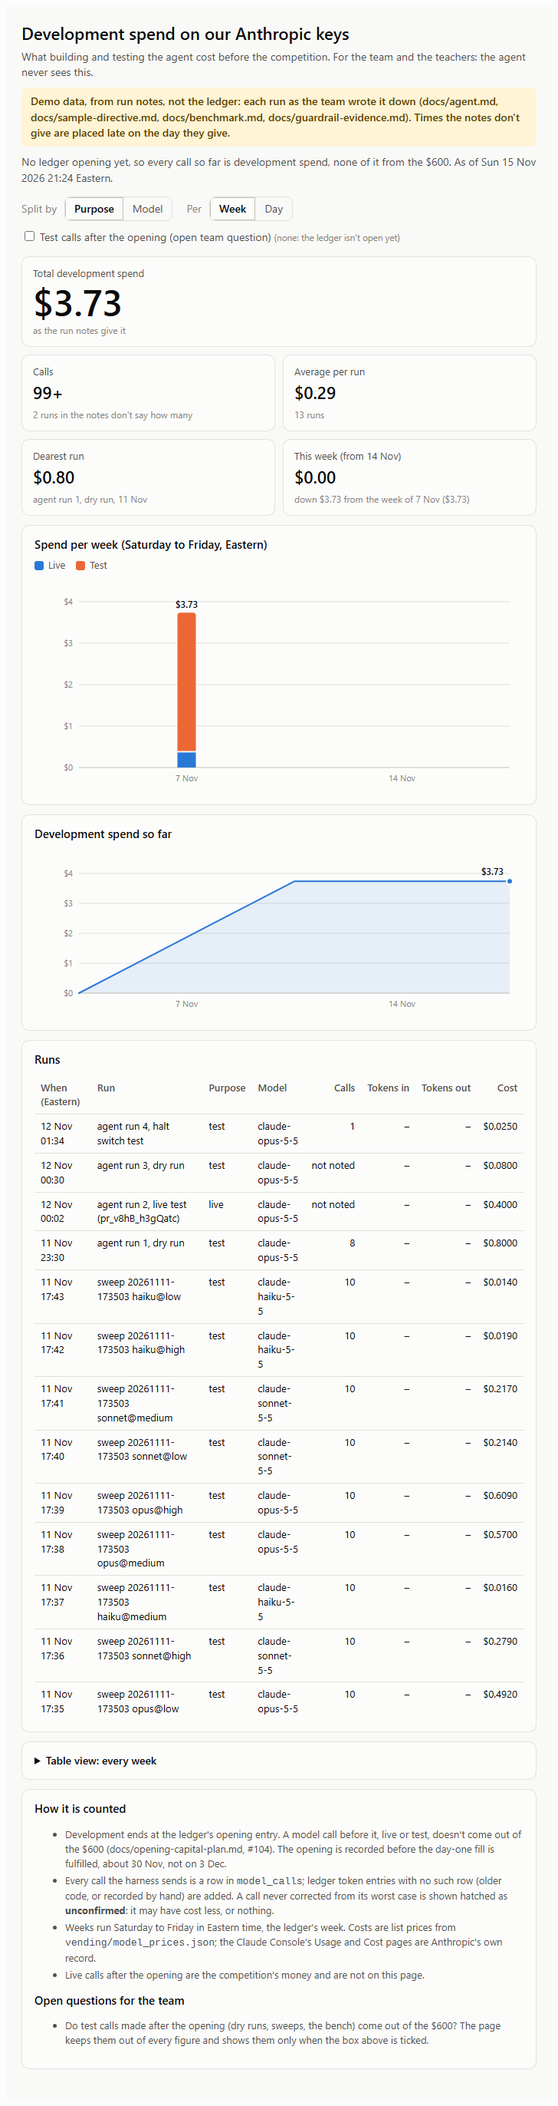
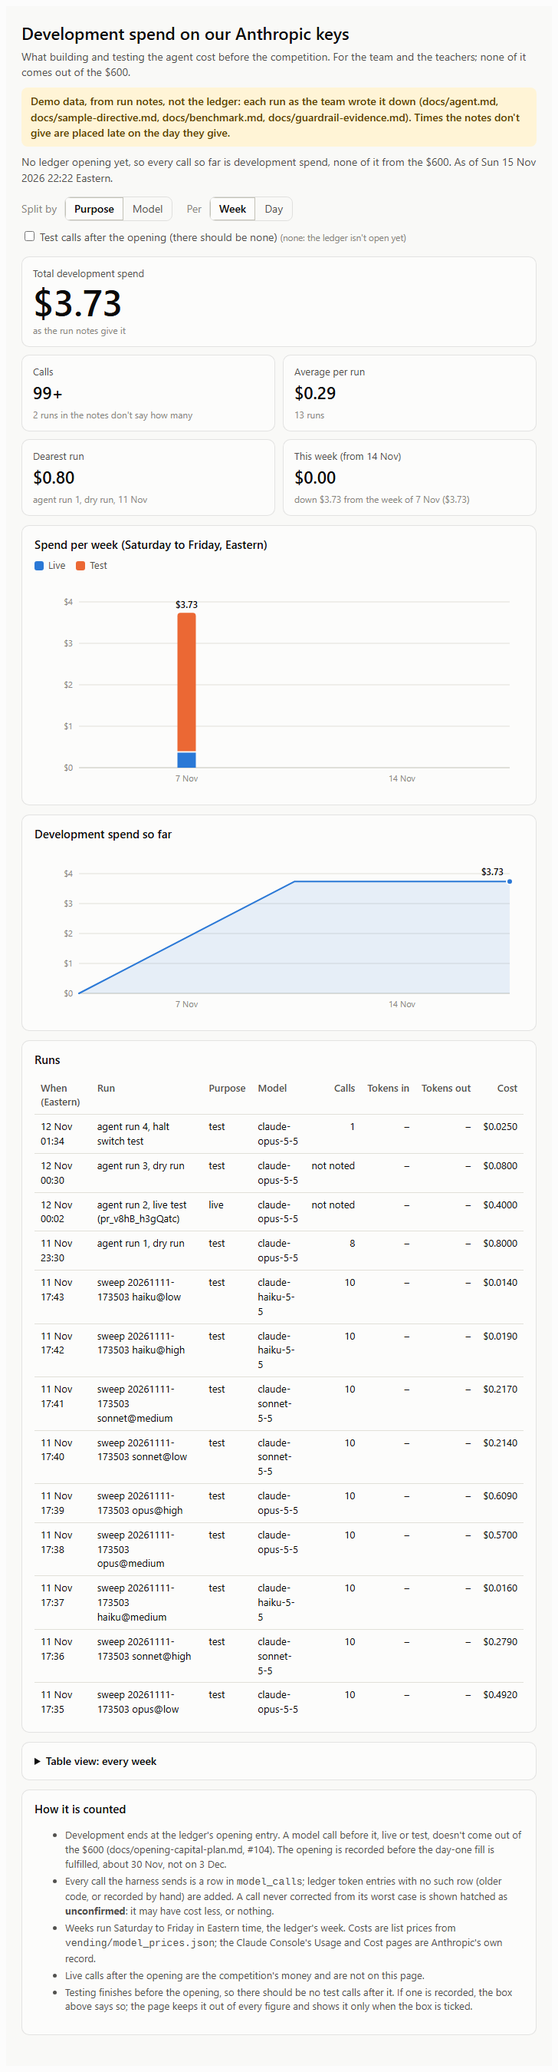
Dev spend: the agent may know it; it just never comes out of the $600
Kevin decided the agent may see what testing cost (it could help it budget
its own calls). What matters is that its competition figures, the balance and
get_pnl, count from the opening on, so the docs, the page and the docstring
now say that instead of "the agent never sees it", and the open question is
the one real problem: get_pnl over a window that starts before the opening
counts development spend in net.

diff --git a/docs/dev-spend/demo.html b/docs/dev-spend/demo.html
@@ -100,8 +100,8 @@ details[open] summary { margin-bottom: 10px; }
 <body>
 <div class="viz-root"><div class="wrap">
   <h1>Development spend on our Anthropic keys</h1>
-  <p class="sub">What building and testing the agent cost before the competition. For the team and the teachers:
-    the agent never sees this.</p>
+  <p class="sub">What building and testing the agent cost before the competition. For the team and the teachers;
+    none of it comes out of the $600.</p>
   <p class="banner" id="source" hidden></p>
   <p class="period" id="period"></p>
 
@@ -157,7 +157,7 @@ details[open] summary { margin-bottom: 10px; }
 </div>
 <script>
 "use strict";
-const DATA = {"weekly":{"unit":"week","source":"from run notes, not the ledger","as_of":"2026-11-15T21:59:58-05:00","opening_at":null,"totals":{"start":"2026-11-07","calls":99,"calls_unknown":2,"tokens_in":0,"tokens_out":0,"tokens_unknown":101,"total_usd":3.734956,"confirmed_usd":3.734956,"unconfirmed_usd":0.0,"by_purpose":{"live":0.4,"test":3.334956},"by_model":{"claude-haiku-5-5":0.049,"claude-opus-5-5":2.975956,"claude-sonnet-5-5":0.71},"by_label":{"agent run 1, dry run":0.8,"agent run 2, live test (pr_v8hB_h3gQatc)":0.4,"agent run 3, dry run":0.08,"agent run 4, halt switch test":0.024956,"sweep 20261111-173503 haiku@high":0.019,"sweep 20261111-173503 haiku@low":0.014,"sweep 20261111-173503 haiku@medium":0.016,"sweep 20261111-173503 opus@high":0.609,"sweep 20261111-173503 opus@low":0.492,"sweep 20261111-173503 opus@medium":0.57,"sweep 20261111-173503 sonnet@high":0.279,"sweep 20261111-173503 sonnet@low":0.214,"sweep 20261111-173503 sonnet@medium":0.217},"cumulative_usd":0.0,"after_opening_test_usd":0.0,"after_opening_test_calls":0,"after_opening_test_unconfirmed_usd":0.0,"runs":13},"buckets":[{"start":"2026-11-07","calls":99,"calls_unknown":2,"tokens_in":0,"tokens_out":0,"tokens_unknown":101,"total_usd":3.734956,"confirmed_usd":3.734956,"unconfirmed_usd":0.0,"by_purpose":{"live":0.4,"test":3.334956},"by_model":{"claude-haiku-5-5":0.049,"claude-opus-5-5":2.975956,"claude-sonnet-5-5":0.71},"by_label":{"agent run 1, dry run":0.8,"agent run 2, live test (pr_v8hB_h3gQatc)":0.4,"agent run 3, dry run":0.08,"agent run 4, halt switch test":0.024956,"sweep 20261111-173503 haiku@high":0.019,"sweep 20261111-173503 haiku@low":0.014,"sweep 20261111-173503 haiku@medium":0.016,"sweep 20261111-173503 opus@high":0.609,"sweep 20261111-173503 opus@low":0.492,"sweep 20261111-173503 opus@medium":0.57,"sweep 20261111-173503 sonnet@high":0.279,"sweep 20261111-173503 sonnet@low":0.214,"sweep 20261111-173503 sonnet@medium":0.217},"cumulative_usd":3.734956,"after_opening_test_usd":0.0,"after_opening_test_calls":0,"after_opening_test_unconfirmed_usd":0.0},{"start":"2026-11-14","calls":0,"calls_unknown":0,"tokens_in":0,"tokens_out":0,"tokens_unknown":0,"total_usd":0.0,"confirmed_usd":0.0,"unconfirmed_usd":0.0,"by_purpose":{},"by_model":{},"by_label":{},"cumulative_usd":3.734956,"after_opening_test_usd":0.0,"after_opening_test_calls":0,"after_opening_test_unconfirmed_usd":0.0}],"runs":[{"first_at":"2026-11-12T01:34:25-05:00","purpose":"test","label":"agent run 4, halt switch test","models":["claude-opus-5-5"],"calls":1,"tokens_in":null,"tokens_out":null,"total_usd":0.024956,"unconfirmed_usd":0.0,"after_opening":false},{"first_at":"2026-11-12T00:30:00-05:00","purpose":"test","label":"agent run 3, dry run","models":["claude-opus-5-5"],"calls":null,"tokens_in":null,"tokens_out":null,"total_usd":0.08,"unconfirmed_usd":0.0,"after_opening":false},{"first_at":"2026-11-12T00:02:00-05:00","purpose":"live","label":"agent run 2, live test (pr_v8hB_h3gQatc)","models":["claude-opus-5-5"],"calls":null,"tokens_in":null,"tokens_out":null,"total_usd":0.4,"unconfirmed_usd":0.0,"after_opening":false},{"first_at":"2026-11-11T23:30:00-05:00","purpose":"test","label":"agent run 1, dry run","models":["claude-opus-5-5"],"calls":8,"tokens_in":null,"tokens_out":null,"total_usd":0.8,"unconfirmed_usd":0.0,"after_opening":false},{"first_at":"2026-11-11T17:43:00-05:00","purpose":"test","label":"sweep 20261111-173503 haiku@low","models":["claude-haiku-5-5"],"calls":10,"tokens_in":null,"tokens_out":null,"total_usd":0.014,"unconfirmed_usd":0.0,"after_opening":false},{"first_at":"2026-11-11T17:42:00-05:00","purpose":"test","label":"sweep 20261111-173503 haiku@high","models":["claude-haiku-5-5"],"calls":10,"tokens_in":null,"tokens_out":null,"total_usd":0.019,"unconfirmed_usd":0.0,"after_opening":false},{"first_at":"2026-11-11T17:41:00-05:00","purpose":"test","label":"sweep 20261111-173503 sonnet@medium","models":["claude-sonnet-5-5"],"calls":10,"tokens_in":null,"tokens_out":null,"total_usd":0.217,"unconfirmed_usd":0.0,"after_opening":false},{"first_at":"2026-11-11T17:40:00-05:00","purpose":"test","label":"sweep 20261111-173503 sonnet@low","models":["claude-sonnet-5-5"],"calls":10,"tokens_in":null,"tokens_out":null,"total_usd":0.214,"unconfirmed_usd":0.0,"after_opening":false},{"first_at":"2026-11-11T17:39:00-05:00","purpose":"test","label":"sweep 20261111-173503 opus@high","models":["claude-opus-5-5"],"calls":10,"tokens_in":null,"tokens_out":null,"total_usd":0.609,"unconfirmed_usd":0.0,"after_opening":false},{"first_at":"2026-11-11T17:38:00-05:00","purpose":"test","label":"sweep 20261111-173503 opus@medium","models":["claude-opus-5-5"],"calls":10,"tokens_in":null,"tokens_out":null,"total_usd":0.57,"unconfirmed_usd":0.0,"after_opening":false},{"first_at":"2026-11-11T17:37:00-05:00","purpose":"test","label":"sweep 20261111-173503 haiku@medium","models":["claude-haiku-5-5"],"calls":10,"tokens_in":null,"tokens_out":null,"total_usd":0.016,"unconfirmed_usd":0.0,"after_opening":false},{"first_at":"2026-11-11T17:36:00-05:00","purpose":"test","label":"sweep 20261111-173503 sonnet@high","models":["claude-sonnet-5-5"],"calls":10,"tokens_in":null,"tokens_out":null,"total_usd":0.279,"unconfirmed_usd":0.0,"after_opening":false},{"first_at":"2026-11-11T17:35:00-05:00","purpose":"test","label":"sweep 20261111-173503 opus@low","models":["claude-opus-5-5"],"calls":10,"tokens_in":null,"tokens_out":null,"total_usd":0.492,"unconfirmed_usd":0.0,"after_opening":false}]},"daily":{"unit":"day","source":"from run notes, not the ledger","as_of":"2026-11-15T21:59:58-05:00","opening_at":null,"totals":{"start":"2026-11-11","calls":99,"calls_unknown":2,"tokens_in":0,"tokens_out":0,"tokens_unknown":101,"total_usd":3.734956,"confirmed_usd":3.734956,"unconfirmed_usd":0.0,"by_purpose":{"live":0.4,"test":3.334956},"by_model":{"claude-haiku-5-5":0.049,"claude-opus-5-5":2.975956,"claude-sonnet-5-5":0.71},"by_label":{"agent run 1, dry run":0.8,"agent run 2, live test (pr_v8hB_h3gQatc)":0.4,"agent run 3, dry run":0.08,"agent run 4, halt switch test":0.024956,"sweep 20261111-173503 haiku@high":0.019,"sweep 20261111-173503 haiku@low":0.014,"sweep 20261111-173503 haiku@medium":0.016,"sweep 20261111-173503 opus@high":0.609,"sweep 20261111-173503 opus@low":0.492,"sweep 20261111-173503 opus@medium":0.57,"sweep 20261111-173503 sonnet@high":0.279,"sweep 20261111-173503 sonnet@low":0.214,"sweep 20261111-173503 sonnet@medium":0.217},"cumulative_usd":0.0,"after_opening_test_usd":0.0,"after_opening_test_calls":0,"after_opening_test_unconfirmed_usd":0.0,"runs":13},"buckets":[{"start":"2026-11-11","calls":98,"calls_unknown":0,"tokens_in":0,"tokens_out":0,"tokens_unknown":98,"total_usd":3.23,"confirmed_usd":3.23,"unconfirmed_usd":0.0,"by_purpose":{"test":3.23},"by_model":{"claude-haiku-5-5":0.049,"claude-opus-5-5":2.471,"claude-sonnet-5-5":0.71},"by_label":{"agent run 1, dry run":0.8,"sweep 20261111-173503 haiku@high":0.019,"sweep 20261111-173503 haiku@low":0.014,"sweep 20261111-173503 haiku@medium":0.016,"sweep 20261111-173503 opus@high":0.609,"sweep 20261111-173503 opus@low":0.492,"sweep 20261111-173503 opus@medium":0.57,"sweep 20261111-173503 sonnet@high":0.279,"sweep 20261111-173503 sonnet@low":0.214,"sweep 20261111-173503 sonnet@medium":0.217},"cumulative_usd":3.23,"after_opening_test_usd":0.0,"after_opening_test_calls":0,"after_opening_test_unconfirmed_usd":0.0},{"start":"2026-11-12","calls":1,"calls_unknown":2,"tokens_in":0,"tokens_out":0,"tokens_unknown":3,"total_usd":0.504956,"confirmed_usd":0.504956,"unconfirmed_usd":0.0,"by_purpose":{"live":0.4,"test":0.104956},"by_model":{"claude-opus-5-5":0.504956},"by_label":{"agent run 2, live test (pr_v8hB_h3gQatc)":0.4,"agent run 3, dry run":0.08,"agent run 4, halt switch test":0.024956},"cumulative_usd":3.734956,"after_opening_test_usd":0.0,"after_opening_test_calls":0,"after_opening_test_unconfirmed_usd":0.0},{"start":"2026-11-13","calls":0,"calls_unknown":0,"tokens_in":0,"tokens_out":0,"tokens_unknown":0,"total_usd":0.0,"confirmed_usd":0.0,"unconfirmed_usd":0.0,"by_purpose":{},"by_model":{},"by_label":{},"cumulative_usd":3.734956,"after_opening_test_usd":0.0,"after_opening_test_calls":0,"after_opening_test_unconfirmed_usd":0.0},{"start":"2026-11-14","calls":0,"calls_unknown":0,"tokens_in":0,"tokens_out":0,"tokens_unknown":0,"total_usd":0.0,"confirmed_usd":0.0,"unconfirmed_usd":0.0,"by_purpose":{},"by_model":{},"by_label":{},"cumulative_usd":3.734956,"after_opening_test_usd":0.0,"after_opening_test_calls":0,"after_opening_test_unconfirmed_usd":0.0},{"start":"2026-11-15","calls":0,"calls_unknown":0,"tokens_in":0,"tokens_out":0,"tokens_unknown":0,"total_usd":0.0,"confirmed_usd":0.0,"unconfirmed_usd":0.0,"by_purpose":{},"by_model":{},"by_label":{},"cumulative_usd":3.734956,"after_opening_test_usd":0.0,"after_opening_test_calls":0,"after_opening_test_unconfirmed_usd":0.0}],"runs":[{"first_at":"2026-11-12T01:34:25-05:00","purpose":"test","label":"agent run 4, halt switch test","models":["claude-opus-5-5"],"calls":1,"tokens_in":null,"tokens_out":null,"total_usd":0.024956,"unconfirmed_usd":0.0,"after_opening":false},{"first_at":"2026-11-12T00:30:00-05:00","purpose":"test","label":"agent run 3, dry run","models":["claude-opus-5-5"],"calls":null,"tokens_in":null,"tokens_out":null,"total_usd":0.08,"unconfirmed_usd":0.0,"after_opening":false},{"first_at":"2026-11-12T00:02:00-05:00","purpose":"live","label":"agent run 2, live test (pr_v8hB_h3gQatc)","models":["claude-opus-5-5"],"calls":null,"tokens_in":null,"tokens_out":null,"total_usd":0.4,"unconfirmed_usd":0.0,"after_opening":false},{"first_at":"2026-11-11T23:30:00-05:00","purpose":"test","label":"agent run 1, dry run","models":["claude-opus-5-5"],"calls":8,"tokens_in":null,"tokens_out":null,"total_usd":0.8,"unconfirmed_usd":0.0,"after_opening":false},{"first_at":"2026-11-11T17:43:00-05:00","purpose":"test","label":"sweep 20261111-173503 haiku@low","models":["claude-haiku-5-5"],"calls":10,"tokens_in":null,"tokens_out":null,"total_usd":0.014,"unconfirmed_usd":0.0,"after_opening":false},{"first_at":"2026-11-11T17:42:00-05:00","purpose":"test","label":"sweep 20261111-173503 haiku@high","models":["claude-haiku-5-5"],"calls":10,"tokens_in":null,"tokens_out":null,"total_usd":0.019,"unconfirmed_usd":0.0,"after_opening":false},{"first_at":"2026-11-11T17:41:00-05:00","purpose":"test","label":"sweep 20261111-173503 sonnet@medium","models":["claude-sonnet-5-5"],"calls":10,"tokens_in":null,"tokens_out":null,"total_usd":0.217,"unconfirmed_usd":0.0,"after_opening":false},{"first_at":"2026-11-11T17:40:00-05:00","purpose":"test","label":"sweep 20261111-173503 sonnet@low","models":["claude-sonnet-5-5"],"calls":10,"tokens_in":null,"tokens_out":null,"total_usd":0.214,"unconfirmed_usd":0.0,"after_opening":false},{"first_at":"2026-11-11T17:39:00-05:00","purpose":"test","label":"sweep 20261111-173503 opus@high","models":["claude-opus-5-5"],"calls":10,"tokens_in":null,"tokens_out":null,"total_usd":0.609,"unconfirmed_usd":0.0,"after_opening":false},{"first_at":"2026-11-11T17:38:00-05:00","purpose":"test","label":"sweep 20261111-173503 opus@medium","models":["claude-opus-5-5"],"calls":10,"tokens_in":null,"tokens_out":null,"total_usd":0.57,"unconfirmed_usd":0.0,"after_opening":false},{"first_at":"2026-11-11T17:37:00-05:00","purpose":"test","label":"sweep 20261111-173503 haiku@medium","models":["claude-haiku-5-5"],"calls":10,"tokens_in":null,"tokens_out":null,"total_usd":0.016,"unconfirmed_usd":0.0,"after_opening":false},{"first_at":"2026-11-11T17:36:00-05:00","purpose":"test","label":"sweep 20261111-173503 sonnet@high","models":["claude-sonnet-5-5"],"calls":10,"tokens_in":null,"tokens_out":null,"total_usd":0.279,"unconfirmed_usd":0.0,"after_opening":false},{"first_at":"2026-11-11T17:35:00-05:00","purpose":"test","label":"sweep 20261111-173503 opus@low","models":["claude-opus-5-5"],"calls":10,"tokens_in":null,"tokens_out":null,"total_usd":0.492,"unconfirmed_usd":0.0,"after_opening":false}]}};
+const DATA = {"weekly":{"unit":"week","source":"from run notes, not the ledger","as_of":"2026-11-15T22:22:00-05:00","opening_at":null,"totals":{"start":"2026-11-07","calls":99,"calls_unknown":2,"tokens_in":0,"tokens_out":0,"tokens_unknown":101,"total_usd":3.734956,"confirmed_usd":3.734956,"unconfirmed_usd":0.0,"by_purpose":{"live":0.4,"test":3.334956},"by_model":{"claude-haiku-5-5":0.049,"claude-opus-5-5":2.975956,"claude-sonnet-5-5":0.71},"by_label":{"agent run 1, dry run":0.8,"agent run 2, live test (pr_v8hB_h3gQatc)":0.4,"agent run 3, dry run":0.08,"agent run 4, halt switch test":0.024956,"sweep 20261111-173503 haiku@high":0.019,"sweep 20261111-173503 haiku@low":0.014,"sweep 20261111-173503 haiku@medium":0.016,"sweep 20261111-173503 opus@high":0.609,"sweep 20261111-173503 opus@low":0.492,"sweep 20261111-173503 opus@medium":0.57,"sweep 20261111-173503 sonnet@high":0.279,"sweep 20261111-173503 sonnet@low":0.214,"sweep 20261111-173503 sonnet@medium":0.217},"cumulative_usd":0.0,"after_opening_test_usd":0.0,"after_opening_test_calls":0,"after_opening_test_unconfirmed_usd":0.0,"runs":13},"buckets":[{"start":"2026-11-07","calls":99,"calls_unknown":2,"tokens_in":0,"tokens_out":0,"tokens_unknown":101,"total_usd":3.734956,"confirmed_usd":3.734956,"unconfirmed_usd":0.0,"by_purpose":{"live":0.4,"test":3.334956},"by_model":{"claude-haiku-5-5":0.049,"claude-opus-5-5":2.975956,"claude-sonnet-5-5":0.71},"by_label":{"agent run 1, dry run":0.8,"agent run 2, live test (pr_v8hB_h3gQatc)":0.4,"agent run 3, dry run":0.08,"agent run 4, halt switch test":0.024956,"sweep 20261111-173503 haiku@high":0.019,"sweep 20261111-173503 haiku@low":0.014,"sweep 20261111-173503 haiku@medium":0.016,"sweep 20261111-173503 opus@high":0.609,"sweep 20261111-173503 opus@low":0.492,"sweep 20261111-173503 opus@medium":0.57,"sweep 20261111-173503 sonnet@high":0.279,"sweep 20261111-173503 sonnet@low":0.214,"sweep 20261111-173503 sonnet@medium":0.217},"cumulative_usd":3.734956,"after_opening_test_usd":0.0,"after_opening_test_calls":0,"after_opening_test_unconfirmed_usd":0.0},{"start":"2026-11-14","calls":0,"calls_unknown":0,"tokens_in":0,"tokens_out":0,"tokens_unknown":0,"total_usd":0.0,"confirmed_usd":0.0,"unconfirmed_usd":0.0,"by_purpose":{},"by_model":{},"by_label":{},"cumulative_usd":3.734956,"after_opening_test_usd":0.0,"after_opening_test_calls":0,"after_opening_test_unconfirmed_usd":0.0}],"runs":[{"first_at":"2026-11-12T01:34:25-05:00","purpose":"test","label":"agent run 4, halt switch test","models":["claude-opus-5-5"],"calls":1,"tokens_in":null,"tokens_out":null,"total_usd":0.024956,"unconfirmed_usd":0.0,"after_opening":false},{"first_at":"2026-11-12T00:30:00-05:00","purpose":"test","label":"agent run 3, dry run","models":["claude-opus-5-5"],"calls":null,"tokens_in":null,"tokens_out":null,"total_usd":0.08,"unconfirmed_usd":0.0,"after_opening":false},{"first_at":"2026-11-12T00:02:00-05:00","purpose":"live","label":"agent run 2, live test (pr_v8hB_h3gQatc)","models":["claude-opus-5-5"],"calls":null,"tokens_in":null,"tokens_out":null,"total_usd":0.4,"unconfirmed_usd":0.0,"after_opening":false},{"first_at":"2026-11-11T23:30:00-05:00","purpose":"test","label":"agent run 1, dry run","models":["claude-opus-5-5"],"calls":8,"tokens_in":null,"tokens_out":null,"total_usd":0.8,"unconfirmed_usd":0.0,"after_opening":false},{"first_at":"2026-11-11T17:43:00-05:00","purpose":"test","label":"sweep 20261111-173503 haiku@low","models":["claude-haiku-5-5"],"calls":10,"tokens_in":null,"tokens_out":null,"total_usd":0.014,"unconfirmed_usd":0.0,"after_opening":false},{"first_at":"2026-11-11T17:42:00-05:00","purpose":"test","label":"sweep 20261111-173503 haiku@high","models":["claude-haiku-5-5"],"calls":10,"tokens_in":null,"tokens_out":null,"total_usd":0.019,"unconfirmed_usd":0.0,"after_opening":false},{"first_at":"2026-11-11T17:41:00-05:00","purpose":"test","label":"sweep 20261111-173503 sonnet@medium","models":["claude-sonnet-5-5"],"calls":10,"tokens_in":null,"tokens_out":null,"total_usd":0.217,"unconfirmed_usd":0.0,"after_opening":false},{"first_at":"2026-11-11T17:40:00-05:00","purpose":"test","label":"sweep 20261111-173503 sonnet@low","models":["claude-sonnet-5-5"],"calls":10,"tokens_in":null,"tokens_out":null,"total_usd":0.214,"unconfirmed_usd":0.0,"after_opening":false},{"first_at":"2026-11-11T17:39:00-05:00","purpose":"test","label":"sweep 20261111-173503 opus@high","models":["claude-opus-5-5"],"calls":10,"tokens_in":null,"tokens_out":null,"total_usd":0.609,"unconfirmed_usd":0.0,"after_opening":false},{"first_at":"2026-11-11T17:38:00-05:00","purpose":"test","label":"sweep 20261111-173503 opus@medium","models":["claude-opus-5-5"],"calls":10,"tokens_in":null,"tokens_out":null,"total_usd":0.57,"unconfirmed_usd":0.0,"after_opening":false},{"first_at":"2026-11-11T17:37:00-05:00","purpose":"test","label":"sweep 20261111-173503 haiku@medium","models":["claude-haiku-5-5"],"calls":10,"tokens_in":null,"tokens_out":null,"total_usd":0.016,"unconfirmed_usd":0.0,"after_opening":false},{"first_at":"2026-11-11T17:36:00-05:00","purpose":"test","label":"sweep 20261111-173503 sonnet@high","models":["claude-sonnet-5-5"],"calls":10,"tokens_in":null,"tokens_out":null,"total_usd":0.279,"unconfirmed_usd":0.0,"after_opening":false},{"first_at":"2026-11-11T17:35:00-05:00","purpose":"test","label":"sweep 20261111-173503 opus@low","models":["claude-opus-5-5"],"calls":10,"tokens_in":null,"tokens_out":null,"total_usd":0.492,"unconfirmed_usd":0.0,"after_opening":false}]},"daily":{"unit":"day","source":"from run notes, not the ledger","as_of":"2026-11-15T22:22:00-05:00","opening_at":null,"totals":{"start":"2026-11-11","calls":99,"calls_unknown":2,"tokens_in":0,"tokens_out":0,"tokens_unknown":101,"total_usd":3.734956,"confirmed_usd":3.734956,"unconfirmed_usd":0.0,"by_purpose":{"live":0.4,"test":3.334956},"by_model":{"claude-haiku-5-5":0.049,"claude-opus-5-5":2.975956,"claude-sonnet-5-5":0.71},"by_label":{"agent run 1, dry run":0.8,"agent run 2, live test (pr_v8hB_h3gQatc)":0.4,"agent run 3, dry run":0.08,"agent run 4, halt switch test":0.024956,"sweep 20261111-173503 haiku@high":0.019,"sweep 20261111-173503 haiku@low":0.014,"sweep 20261111-173503 haiku@medium":0.016,"sweep 20261111-173503 opus@high":0.609,"sweep 20261111-173503 opus@low":0.492,"sweep 20261111-173503 opus@medium":0.57,"sweep 20261111-173503 sonnet@high":0.279,"sweep 20261111-173503 sonnet@low":0.214,"sweep 20261111-173503 sonnet@medium":0.217},"cumulative_usd":0.0,"after_opening_test_usd":0.0,"after_opening_test_calls":0,"after_opening_test_unconfirmed_usd":0.0,"runs":13},"buckets":[{"start":"2026-11-11","calls":98,"calls_unknown":0,"tokens_in":0,"tokens_out":0,"tokens_unknown":98,"total_usd":3.23,"confirmed_usd":3.23,"unconfirmed_usd":0.0,"by_purpose":{"test":3.23},"by_model":{"claude-haiku-5-5":0.049,"claude-opus-5-5":2.471,"claude-sonnet-5-5":0.71},"by_label":{"agent run 1, dry run":0.8,"sweep 20261111-173503 haiku@high":0.019,"sweep 20261111-173503 haiku@low":0.014,"sweep 20261111-173503 haiku@medium":0.016,"sweep 20261111-173503 opus@high":0.609,"sweep 20261111-173503 opus@low":0.492,"sweep 20261111-173503 opus@medium":0.57,"sweep 20261111-173503 sonnet@high":0.279,"sweep 20261111-173503 sonnet@low":0.214,"sweep 20261111-173503 sonnet@medium":0.217},"cumulative_usd":3.23,"after_opening_test_usd":0.0,"after_opening_test_calls":0,"after_opening_test_unconfirmed_usd":0.0},{"start":"2026-11-12","calls":1,"calls_unknown":2,"tokens_in":0,"tokens_out":0,"tokens_unknown":3,"total_usd":0.504956,"confirmed_usd":0.504956,"unconfirmed_usd":0.0,"by_purpose":{"live":0.4,"test":0.104956},"by_model":{"claude-opus-5-5":0.504956},"by_label":{"agent run 2, live test (pr_v8hB_h3gQatc)":0.4,"agent run 3, dry run":0.08,"agent run 4, halt switch test":0.024956},"cumulative_usd":3.734956,"after_opening_test_usd":0.0,"after_opening_test_calls":0,"after_opening_test_unconfirmed_usd":0.0},{"start":"2026-11-13","calls":0,"calls_unknown":0,"tokens_in":0,"tokens_out":0,"tokens_unknown":0,"total_usd":0.0,"confirmed_usd":0.0,"unconfirmed_usd":0.0,"by_purpose":{},"by_model":{},"by_label":{},"cumulative_usd":3.734956,"after_opening_test_usd":0.0,"after_opening_test_calls":0,"after_opening_test_unconfirmed_usd":0.0},{"start":"2026-11-14","calls":0,"calls_unknown":0,"tokens_in":0,"tokens_out":0,"tokens_unknown":0,"total_usd":0.0,"confirmed_usd":0.0,"unconfirmed_usd":0.0,"by_purpose":{},"by_model":{},"by_label":{},"cumulative_usd":3.734956,"after_opening_test_usd":0.0,"after_opening_test_calls":0,"after_opening_test_unconfirmed_usd":0.0},{"start":"2026-11-15","calls":0,"calls_unknown":0,"tokens_in":0,"tokens_out":0,"tokens_unknown":0,"total_usd":0.0,"confirmed_usd":0.0,"unconfirmed_usd":0.0,"by_purpose":{},"by_model":{},"by_label":{},"cumulative_usd":3.734956,"after_opening_test_usd":0.0,"after_opening_test_calls":0,"after_opening_test_unconfirmed_usd":0.0}],"runs":[{"first_at":"2026-11-12T01:34:25-05:00","purpose":"test","label":"agent run 4, halt switch test","models":["claude-opus-5-5"],"calls":1,"tokens_in":null,"tokens_out":null,"total_usd":0.024956,"unconfirmed_usd":0.0,"after_opening":false},{"first_at":"2026-11-12T00:30:00-05:00","purpose":"test","label":"agent run 3, dry run","models":["claude-opus-5-5"],"calls":null,"tokens_in":null,"tokens_out":null,"total_usd":0.08,"unconfirmed_usd":0.0,"after_opening":false},{"first_at":"2026-11-12T00:02:00-05:00","purpose":"live","label":"agent run 2, live test (pr_v8hB_h3gQatc)","models":["claude-opus-5-5"],"calls":null,"tokens_in":null,"tokens_out":null,"total_usd":0.4,"unconfirmed_usd":0.0,"after_opening":false},{"first_at":"2026-11-11T23:30:00-05:00","purpose":"test","label":"agent run 1, dry run","models":["claude-opus-5-5"],"calls":8,"tokens_in":null,"tokens_out":null,"total_usd":0.8,"unconfirmed_usd":0.0,"after_opening":false},{"first_at":"2026-11-11T17:43:00-05:00","purpose":"test","label":"sweep 20261111-173503 haiku@low","models":["claude-haiku-5-5"],"calls":10,"tokens_in":null,"tokens_out":null,"total_usd":0.014,"unconfirmed_usd":0.0,"after_opening":false},{"first_at":"2026-11-11T17:42:00-05:00","purpose":"test","label":"sweep 20261111-173503 haiku@high","models":["claude-haiku-5-5"],"calls":10,"tokens_in":null,"tokens_out":null,"total_usd":0.019,"unconfirmed_usd":0.0,"after_opening":false},{"first_at":"2026-11-11T17:41:00-05:00","purpose":"test","label":"sweep 20261111-173503 sonnet@medium","models":["claude-sonnet-5-5"],"calls":10,"tokens_in":null,"tokens_out":null,"total_usd":0.217,"unconfirmed_usd":0.0,"after_opening":false},{"first_at":"2026-11-11T17:40:00-05:00","purpose":"test","label":"sweep 20261111-173503 sonnet@low","models":["claude-sonnet-5-5"],"calls":10,"tokens_in":null,"tokens_out":null,"total_usd":0.214,"unconfirmed_usd":0.0,"after_opening":false},{"first_at":"2026-11-11T17:39:00-05:00","purpose":"test","label":"sweep 20261111-173503 opus@high","models":["claude-opus-5-5"],"calls":10,"tokens_in":null,"tokens_out":null,"total_usd":0.609,"unconfirmed_usd":0.0,"after_opening":false},{"first_at":"2026-11-11T17:38:00-05:00","purpose":"test","label":"sweep 20261111-173503 opus@medium","models":["claude-opus-5-5"],"calls":10,"tokens_in":null,"tokens_out":null,"total_usd":0.57,"unconfirmed_usd":0.0,"after_opening":false},{"first_at":"2026-11-11T17:37:00-05:00","purpose":"test","label":"sweep 20261111-173503 haiku@medium","models":["claude-haiku-5-5"],"calls":10,"tokens_in":null,"tokens_out":null,"total_usd":0.016,"unconfirmed_usd":0.0,"after_opening":false},{"first_at":"2026-11-11T17:36:00-05:00","purpose":"test","label":"sweep 20261111-173503 sonnet@high","models":["claude-sonnet-5-5"],"calls":10,"tokens_in":null,"tokens_out":null,"total_usd":0.279,"unconfirmed_usd":0.0,"after_opening":false},{"first_at":"2026-11-11T17:35:00-05:00","purpose":"test","label":"sweep 20261111-173503 opus@low","models":["claude-opus-5-5"],"calls":10,"tokens_in":null,"tokens_out":null,"total_usd":0.492,"unconfirmed_usd":0.0,"after_opening":false}]}};
 const SVGNS = "http://www.w3.org/2000/svg";
 const MODEL_ORDER = ["claude-opus-5-5", "claude-sonnet-5-5", "claude-haiku-5-5"];
 const SLOTS = ["--s1", "--s2", "--s3", "--s4", "--s5", "--s6"];      // --s7 is kept for test calls after the opening

diff --git a/vending/dev_spend.html b/vending/dev_spend.html
@@ -100,8 +100,8 @@ details[open] summary { margin-bottom: 10px; }
 <body>
 <div class="viz-root"><div class="wrap">
   <h1>Development spend on our Anthropic keys</h1>
-  <p class="sub">What building and testing the agent cost before the competition. For the team and the teachers:
-    the agent never sees this.</p>
+  <p class="sub">What building and testing the agent cost before the competition. For the team and the teachers;
+    none of it comes out of the $600.</p>
   <p class="banner" id="source" hidden></p>
   <p class="period" id="period"></p>
 

diff --git a/vending/dev_spend.py b/vending/dev_spend.py
@@ -6,10 +6,9 @@
     python -m vending.dev_spend --html dev-spend.html    # one page with the data inside it, no server
     python -m vending.dev_spend --demo --html demo.html  # from the team's run notes, no database
 
-**This is for the team and the teachers, not the agent.** What testing cost has no
-bearing on the agent's decisions, so no tool reads it and nothing in the agent's
-brief mentions it. The default `get_pnl` window starts at the opening; an
-explicit earlier window can include pre-opening ledger token entries.
+**This is for the team and the teachers.** No agent tool reads it today. The
+agent may know what testing cost, but none of it comes out of the $600, so its
+competition figures (the balance, `get_pnl`) count from the opening on.
 
 **Development ends at the ledger's opening entry** (`python -m vending.ledger
 open`). A model call before it, live or test, is development spend and doesn't

diff --git a/README.md b/README.md
@@ -80,7 +80,7 @@ from day one.
 | [`docs/week-replayer.md`](docs/week-replayer.md) | The week replayer: score a decision-maker on past weeks, its hard checks, test cases and demand assumptions |
 | [`docs/benchmark.md`](docs/benchmark.md) | The standing benchmark: rerun the test cases after every prompt, rule, case or model change, judged blind, every run kept in the database |
 | [`docs/pnl-report.md`](docs/pnl-report.md) | The weekly P&L report: a printable page of profit and loss by week, from the ledger |
-| [`docs/dev-spend.md`](docs/dev-spend.md) | Development spend: what building and testing the agent cost on our Anthropic keys, week by week, until the ledger's opening. For the team and the teachers, not the agent |
+| [`docs/dev-spend.md`](docs/dev-spend.md) | Development spend: what building and testing the agent cost on our Anthropic keys, week by week, until the ledger's opening. For the team and the teachers; none of it comes out of the $600 |
 | [`docs/guardrail-evidence.md`](docs/guardrail-evidence.md) | Each guardrail tried against the real system on 12 Nov: over-budget and out-of-bounds plans refused, and a running agent halted by one line of SQL |
 | [`docs/halt-for-instructors.md`](docs/halt-for-instructors.md) | Our halt card: three ways to stop our agent without its help. Instructors don't need a halt switch (David, 12 Nov), but may use it |
 | [`docs/sample-directive.md`](docs/sample-directive.md) | A real restock and pricing directive from the agent's first live test run, with its reasons and a check against our own directive rules |

diff --git a/docs/dev-spend.md b/docs/dev-spend.md
@@ -1,8 +1,9 @@
 # Development spend
 
 What building and testing the agent has cost on our Anthropic keys, week by week, until the
-competition starts. **It is for the team and the teachers, not the agent.** No agent tool reads it,
-and nothing in the agent's brief mentions it.
+competition starts, for the team and the teachers. None of it comes out of the $600. No agent tool
+reads it today; the agent may know what testing cost, but its competition figures count from the
+ledger's opening on.
 
 ```
 python -m vending.dev_spend                          # one row a week, Saturday to Friday, Eastern
@@ -86,8 +87,7 @@ The sweep's answers were graded by Claude Code subagents, not on our key, so the
 
 ## Open question
 
-- **What the agent can see.** `get_account_balance` leaves pre-opening token entries out of the
-  balance, but one of its notes gives their count and total ("development spend, not in the
-  balance"). `get_pnl` with an explicit start before the opening counts them as token spend and
-  says nothing. Only live calls reach the ledger, so this concerns live tests before the opening
-  (such as agent run 2), not test runs.
+- **`get_pnl` over a window that starts before the opening** counts pre-opening token entries as
+  token spend and in net, and says nothing, so the agent would think it had spent money that never
+  came out of the $600. Only live calls reach the ledger, so this concerns live tests before the
+  opening (such as agent run 2), not test runs. A separate change fixes it.
